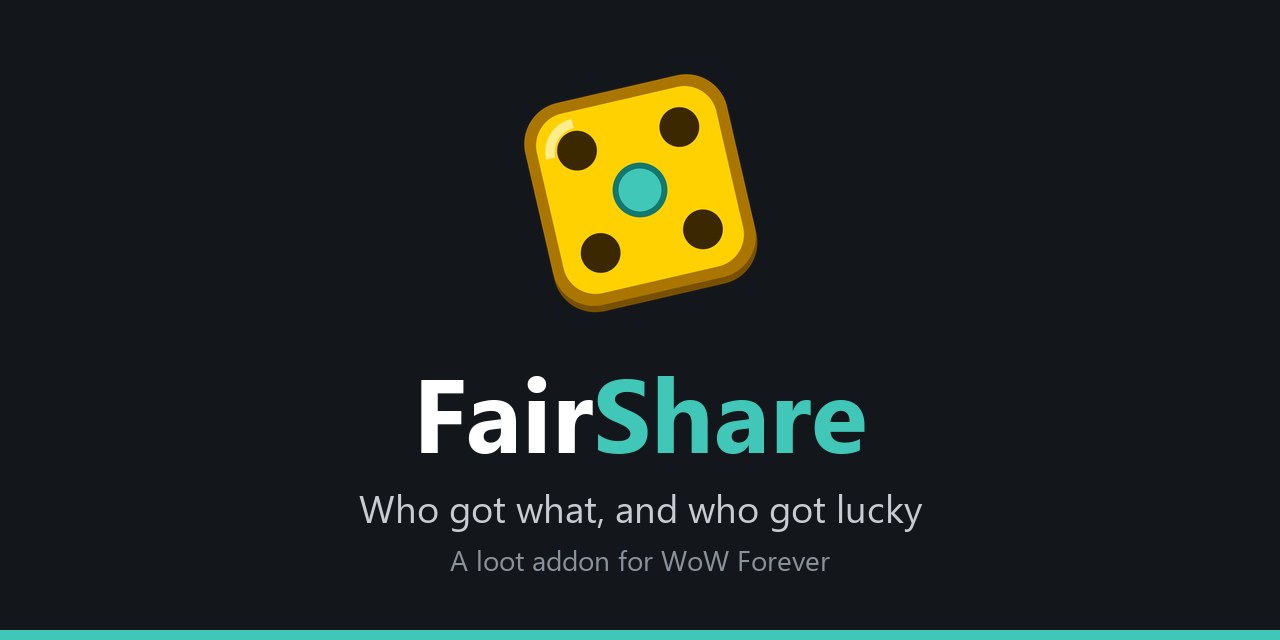
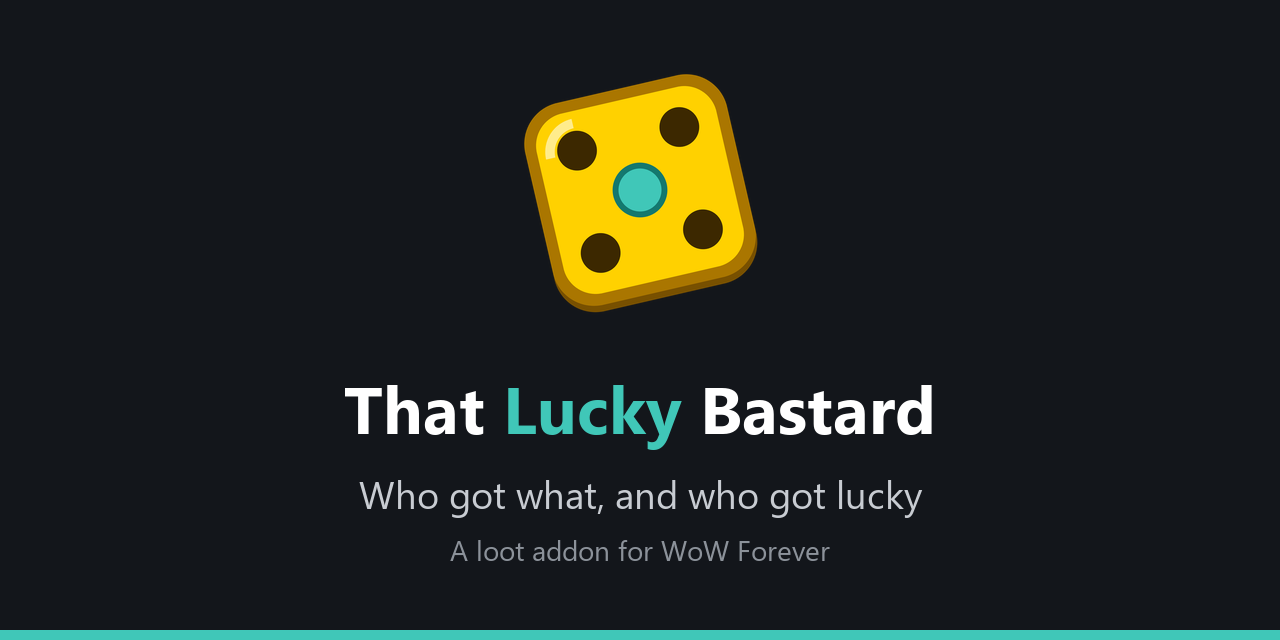
That Lucky Bastard 0.3.0: the addon's new name
FairShare is renamed. Another addon for WoW Forever already uses that
name, with the same folder and the same saved variable, so the two could
not be installed side by side and would read each other's saved data.

- Folder, TOC, saved variable (ThatLuckyBastardDB), frame names, popup
  names and the public table all carry the new name. The example addon
  is ThatLuckyBastard_Example.
- Commands are /tlb and /lucky; /fs and /fairshare are gone.
- The name is shown in three words with "Lucky" in the accent colour.
  Tooltip lines start with the die instead of the name, to stay short.
- README and changelog say how to move over from FairShare, saved runs
  included. The social preview image is redrawn.
- The "Fair Share" award keeps its name.

The screenshot in .previews still shows the old title.

Changed region(s): [[0.25, 0.5938, 0.75, 0.7188], [0.2812, 0.75, 0.7188, 0.9062]]

diff --git a/tools/make_logo.py b/tools/make_logo.py
@@ -1,9 +1,9 @@
-"""Draws the FairShare mark: a gold die showing five, with one lucky pip.
+"""Draws the mark of That Lucky Bastard: a gold die showing five, with one lucky pip.
 
 Five pips for the five players of a dungeon group; the one in the middle,
 in the addon's accent colour, is the one who got lucky.
 
-Writes  FairShare/Media/logo.tga  (64x64, what the game loads)
+Writes  ThatLuckyBastard/Media/logo.tga  (64x64, what the game loads)
         media/logo.png            (512x512, for the README and listings)
         media/logo-sizes.png      (the mark at the sizes the game shows it)
         media/social-preview.png  (1280x640: the mark, the name and a line
@@ -13,7 +13,7 @@ Writes  FairShare/Media/logo.tga  (64x64, what the game loads)
     python tools/make_logo.py
 
 Needs Pillow. The teal is the addon's accent colour; change it here and in
-FairShare/Core.lua (ns.ACCENT, ns.ACCENT_HEX) together.
+ThatLuckyBastard/Core.lua (ns.ACCENT, ns.ACCENT_HEX) together.
 """
 import os
 
@@ -80,14 +80,22 @@ def social():
     mark = 300
     img.alpha_composite(draw(mark), ((W - mark) // 2, 40))
 
-    name = font(104, bold=True)
-    fair, share = d.textlength("Fair", font=name), d.textlength("Share", font=name)
-    x = (W - fair - share) / 2
-    d.text((x, 340), "Fair", font=name, fill=(255, 255, 255))
-    d.text((x + fair, 340), "Share", font=name, fill=TEAL)
+    # The name, as large as the middle 640 pixels allow, "Lucky" in the accent.
+    words = (("That ", (255, 255, 255)), ("Lucky", TEAL), (" Bastard", (255, 255, 255)))
+    size = 104
+    while True:
+        name = font(size, bold=True)
+        widths = [d.textlength(word, font=name) for word, _ in words]
+        if sum(widths) <= 600 or size <= 20:
+            break
+        size -= 2
+    x = (W - sum(widths)) / 2
+    for (word, fill), width in zip(words, widths):
+        d.text((x, 362), word, font=name, fill=fill)
+        x += width
 
-    for text, size, y, fill in (("Who got what, and who got lucky", 38, 482, (200, 204, 210)),
-                                ("A loot addon for WoW Forever", 28, 540, (140, 146, 154))):
+    for text, size, y, fill in (("Who got what, and who got lucky", 38, 468, (200, 204, 210)),
+                                ("A loot addon for WoW Forever", 28, 530, (140, 146, 154))):
         f = font(size)
         d.text(((W - d.textlength(text, font=f)) / 2, y), text, font=f, fill=fill)
     return img
@@ -95,7 +103,7 @@ def social():
 
 def main():
     root = os.path.dirname(os.path.dirname(os.path.abspath(__file__)))
-    game = os.path.join(root, "FairShare", "Media")
+    game = os.path.join(root, "ThatLuckyBastard", "Media")
     docs = os.path.join(root, "media")
     os.makedirs(game, exist_ok=True)
     os.makedirs(docs, exist_ok=True)

diff --git a/tests/run_tests.py b/tests/run_tests.py
@@ -28,7 +28,7 @@ if saved:
     run(saved, 'SavedVariables')
 
 # Files in the order the .toc lists them.
-toc = io.open(os.path.join(addon_dir, 'FairShare.toc'), encoding='utf-8').read()
+toc = io.open(os.path.join(addon_dir, 'ThatLuckyBastard.toc'), encoding='utf-8').read()
 files = [line.strip() for line in toc.splitlines() if re.match(r'^[\w./\\-]+\.lua$', line.strip())]
 load = lua.globals().LoadAddonFile
 for f in files:

diff --git a/README.md b/README.md
@@ -1,14 +1,16 @@
-<img src="https://raw.githubusercontent.com/Dreskn/FairShare/main/media/logo.png" alt="" width="96" align="right">
+<img src="https://raw.githubusercontent.com/Dreskn/ThatLuckyBastard/main/media/logo.png" alt="" width="96" align="right">
 
-# FairShare
+# That Lucky Bastard
 
 A World of Warcraft addon for **WoW Forever** that shows who got what in a dungeon run, and who the lucky one was.
 
-FairShare records what every player in your group looted — boss drops, rolls, skinning, herbs, ore, cloth — puts a gold value on it, and shows who came out ahead and who came out behind. Over time it also builds up statistics about your dungeons, your luck and the people you run with.
+That Lucky Bastard records what every player in your group looted — boss drops, rolls, skinning, herbs, ore, cloth — puts a gold value on it, and shows who came out ahead and who came out behind. Over time it also builds up statistics about your dungeons, your luck and the people you run with.
 
 Everything it shows appears on your screen only. It never sends a chat message.
 
-![The breakdown window after a run of Uldaman](https://raw.githubusercontent.com/Dreskn/FairShare/main/.previews/run.png)
+Until version 0.2.2 it was called FairShare. It was renamed because another addon for WoW Forever already uses that name; see [Coming from FairShare](#coming-from-fairshare).
+
+![The breakdown window after a run of Uldaman](https://raw.githubusercontent.com/Dreskn/ThatLuckyBastard/main/.previews/run.png)
 
 ## The breakdown window
 
@@ -18,7 +20,7 @@ Everything it shows appears on your screen only. It never sends a chat message.
 - **Need rolls:** a button at the top switches the window to show only what each player won on Need rolls. Hovering an item shows whether it was won on Need or Greed, and everyone's roll on it.
 - **Awards:** when a run ends, each player gets one light-hearted award, revealed one by one: the one that fits them best out of about twenty, such as Jackpot, Lion's Share, Fair Share, Loaded Dice, Natural 100, Window Shopper, The Farmer, The Saint or Empty Pockets. The further a player is from normal, the stronger the fit: an average roll of 51 earns nothing, an average of 95 is hard to miss. **Ninja** (most value won on Need rolls) and **Luckiest** (most value won on Greed rolls) count for more than the others, but a more striking award can take their place. Hover an award to see the rule behind it, or click it for the list of all awards.
 - **Under the breakdown:** run time, group loot per hour, a fairness score, any dungeon record the run set, how it compares with your average there, and the streak it belongs to.
-- **History:** past runs are kept and can be browsed. **Pin** a run and it is never deleted: not by the limit on runs to keep, not by `/fs clear`. **Delete** removes just the run on show, after asking.
+- **History:** past runs are kept and can be browsed. **Pin** a run and it is never deleted: not by the limit on runs to keep, not by `/tlb clear`. **Delete** removes just the run on show, after asking.
 
 ## Run details
 
@@ -73,10 +75,19 @@ Tables over everything recorded. Click a column title to sort.
 
 ## Installation
 
-1. Copy the `FairShare` folder into the Forever client's `Interface\AddOns` folder.
+1. Copy the `ThatLuckyBastard` folder into the Forever client's `Interface\AddOns` folder.
 2. Restart the game or type `/reload`.
 
-`FairShare_Example` is an optional test addon, found in the source repository rather than in the download. It adds three fake runs so the window can be tried without running a dungeon. Its runs are never saved; disable or delete it to remove them.
+### Coming from FairShare
+
+Versions up to 0.2.2 were called FairShare. To move over:
+
+1. Delete the old `FairShare` folder from `Interface\AddOns`, and install `ThatLuckyBastard`.
+2. To keep your runs, close the game first. In `WTF\Account\<account>\SavedVariables`, copy `FairShare.lua` to `ThatLuckyBastard.lua`, open the copy, and change `FairShareDB` on its first line to `ThatLuckyBastardDB`.
+
+The commands changed with the name: `/fs` is now `/tlb`.
+
+`ThatLuckyBastard_Example` is an optional test addon, found in the source repository rather than in the download. It adds three fake runs so the window can be tried without running a dungeon. Its runs are never saved; disable or delete it to remove them.
 
 ## Usage
 
@@ -84,21 +95,21 @@ A run starts automatically when you enter a dungeon (and raids, if enabled). The
 
 | Command | Effect |
 | --- | --- |
-| `/fs` or `/fairshare` | Open or close the window |
-| `/fs options` | Open the options |
-| `/fs details` | Run details for the run on show (also `/fs podium`, `paper`, `timeline`, `rolls`, `numbers`) |
-| `/fs stats` | Statistics (also `/fs dungeons`, `records`, `runs`, `luck`, `regulars`, `drops`, `roles`) |
-| `/fs search <item name>` | Find an item in past runs |
-| `/fs awards` | What every award means |
-| `/fs export` | The run on show as text for a spreadsheet; `/fs export all` for every run |
-| `/fs bingo` | Your loot bingo card |
-| `/fs theme classic` / `modern` | Change the look |
-| `/fs start` | Track a run manually, outside a dungeon |
-| `/fs stop` | End the current run |
-| `/fs pin` | Pin the run on show so that it is never deleted; again to unpin |
-| `/fs delete` | Delete the run on show (asks first; not for a pinned run) |
-| `/fs clear` | Delete all recorded runs, except pinned ones |
-| `/fs capture` | Record raw loot and roll messages, for troubleshooting |
+| `/tlb` or `/lucky` | Open or close the window |
+| `/tlb options` | Open the options |
+| `/tlb details` | Run details for the run on show (also `/tlb podium`, `paper`, `timeline`, `rolls`, `numbers`) |
+| `/tlb stats` | Statistics (also `/tlb dungeons`, `records`, `runs`, `luck`, `regulars`, `drops`, `roles`) |
+| `/tlb search <item name>` | Find an item in past runs |
+| `/tlb awards` | What every award means |
+| `/tlb export` | The run on show as text for a spreadsheet; `/tlb export all` for every run |
+| `/tlb bingo` | Your loot bingo card |
+| `/tlb theme classic` / `modern` | Change the look |
+| `/tlb start` | Track a run manually, outside a dungeon |
+| `/tlb stop` | End the current run |
+| `/tlb pin` | Pin the run on show so that it is never deleted; again to unpin |
+| `/tlb delete` | Delete the run on show (asks first; not for a pinned run) |
+| `/tlb clear` | Delete all recorded runs, except pinned ones |
+| `/tlb capture` | Record raw loot and roll messages, for troubleshooting |
 
 The minimap button does the same: left-click for the window, right-click for the options, drag to move it.
 
@@ -106,7 +117,7 @@ The minimap button does the same: left-click for the window, right-click for the
 
 - Entering a different dungeon starts a new run.
 - Running back in as a ghost after a wipe continues the same run.
-- If you come back into the same dungeon within 20 minutes without having died out of it, FairShare asks whether it is a new run. With the prompt turned off, it always starts a new run.
+- If you come back into the same dungeon within 20 minutes without having died out of it, That Lucky Bastard asks whether it is a new run. With the prompt turned off, it always starts a new run.
 - If you reset the instance yourself, the run is closed automatically.
 - A reload or a short disconnect inside the dungeon continues the run.
 
@@ -123,11 +134,11 @@ The minimap button does the same: left-click for the window, right-click for the
 
 - **Range.** The game only reports another player's loot when you are reasonably close to them. Loot picked up far away from you is missed.
 - **Not counted:** coin (it is split evenly by the game), quest rewards, trades and crafted items.
-- **Trades after the run are invisible.** If someone hands an item on, FairShare still counts it for the player who looted it.
+- **Trades after the run are invisible.** If someone hands an item on, That Lucky Bastard still counts it for the player who looted it.
 - **New figures start now.** The timeline, the roll sheet, roll luck and loot by source rely on details recorded from version 0.2.0 on. Runs recorded before have none of them.
 - **Boss loot is a rule of thumb:** whatever was picked up within 90 seconds of a boss kill, profession materials aside.
 - **Roll luck counts what the game reports.** A roll nobody won (everyone passed) is not counted, and a roll whose messages you were too far away to receive is missed.
-- **Pictures of players who have left are stand-ins.** The game cannot save a portrait or a model. FairShare saves each player's race, sex and visible gear during the run, and afterwards shows the game's picture for that race, or a model of that race wearing that gear. Their face and hair are not known. A player whose gear was never close enough to read gets a class icon, as do runs recorded before version 0.2.0.
+- **Pictures of players who have left are stand-ins.** The game cannot save a portrait or a model. That Lucky Bastard saves each player's race, sex and visible gear during the run, and afterwards shows the game's picture for that race, or a model of that race wearing that gear. Their face and hair are not known. A player whose gear was never close enough to read gets a class icon, as do runs recorded before version 0.2.0.
 - **Item search and the Runs page only cover the runs that are kept** (300 by default; any number up to unlimited). A run takes about 25 to 150 KB in the saved file. Dungeon figures, records, regulars, luck, drops and roles are kept separately and are not affected by that limit.
 - **People met once are forgotten after 90 days.** Regulars would otherwise fill up with strangers from random groups.
 - **Lowering the number of runs to keep takes effect when the next run ends,** so a misclick deletes nothing.
@@ -137,7 +148,7 @@ The minimap button does the same: left-click for the window, right-click for the
 
 ## Privacy
 
-FairShare never sends chat messages and never shares anything with other players. Everything it shows, including the awards, the notices and what it knows about the people you run with, appears only on the screen of the player who has it installed. The export is text you copy yourself; nothing is written anywhere else.
+That Lucky Bastard never sends chat messages and never shares anything with other players. Everything it shows, including the awards, the notices and what it knows about the people you run with, appears only on the screen of the player who has it installed. The export is text you copy yourself; nothing is written anywhere else.
 
 ## Compatibility
 
@@ -147,33 +158,33 @@ FairShare never sends chat messages and never shares anything with other players
 
 ## Data
 
-Runs, statistics and settings are saved account-wide in `WTF\Account\<account>\SavedVariables\FairShare.lua`. The game writes this file on logout and on `/reload`.
+Runs, statistics and settings are saved account-wide in `WTF\Account\<account>\SavedVariables\ThatLuckyBastard.lua`. The game writes this file on logout and on `/reload`.
 
 ## Development
 
 `tests/` holds a small test rig that loads the addon into a real Lua 5.1 engine with stand-ins for the game, plays a dungeon run through its event handlers, and opens every window. It needs Python with the `lupa` package.
 
 ```bash
-python tests/luacheck.py FairShare/*.lua
+python tests/luacheck.py ThatLuckyBastard/*.lua
 ```
 
 ```bash
-python tests/run_tests.py FairShare tests/test_ui.lua
+python tests/run_tests.py ThatLuckyBastard tests/test_ui.lua
 ```
 
 ```bash
-python tests/run_tests.py FairShare tests/test_pin.lua
+python tests/run_tests.py ThatLuckyBastard tests/test_pin.lua
 ```
 
 ```bash
-python tests/run_tests.py FairShare tests/test_looks.lua
+python tests/run_tests.py ThatLuckyBastard tests/test_looks.lua
 ```
 
 ```bash
-python tests/run_tests.py FairShare tests/test_audit.lua
+python tests/run_tests.py ThatLuckyBastard tests/test_audit.lua
 ```
 
-`tools/make_logo.py` draws the addon's mark (needs Pillow); the brand colours live at the top of `FairShare/Core.lua`.
+`tools/make_logo.py` draws the addon's mark (needs Pillow); the brand colours live at the top of `ThatLuckyBastard/Core.lua`.
 
 The rig proves that the code runs and computes the right figures. It cannot show what a window looks like; that still needs the game.
 

diff --git a/CHANGELOG.md b/CHANGELOG.md
@@ -1,5 +1,12 @@
 # Changelog
 
+## 0.3.0
+
+- The addon is now called **That Lucky Bastard**. It was FairShare until now. Another addon for WoW Forever already uses that name, with the same folder and the same saved-data name, so the two could not be installed side by side.
+- The commands are `/tlb` and `/lucky`. `/fs` and `/fairshare` are gone.
+- Tooltip lines start with the die instead of the addon's name.
+- Coming from FairShare: delete the old `FairShare` folder. To keep your runs, close the game, copy `SavedVariables\FairShare.lua` to `ThatLuckyBastard.lua` in the same folder, and change `FairShareDB` on the copy's first line to `ThatLuckyBastardDB`.
+
 ## 0.2.2
 
 - No change to the addon. This release carries the screenshot and logo used by the addon listings.
